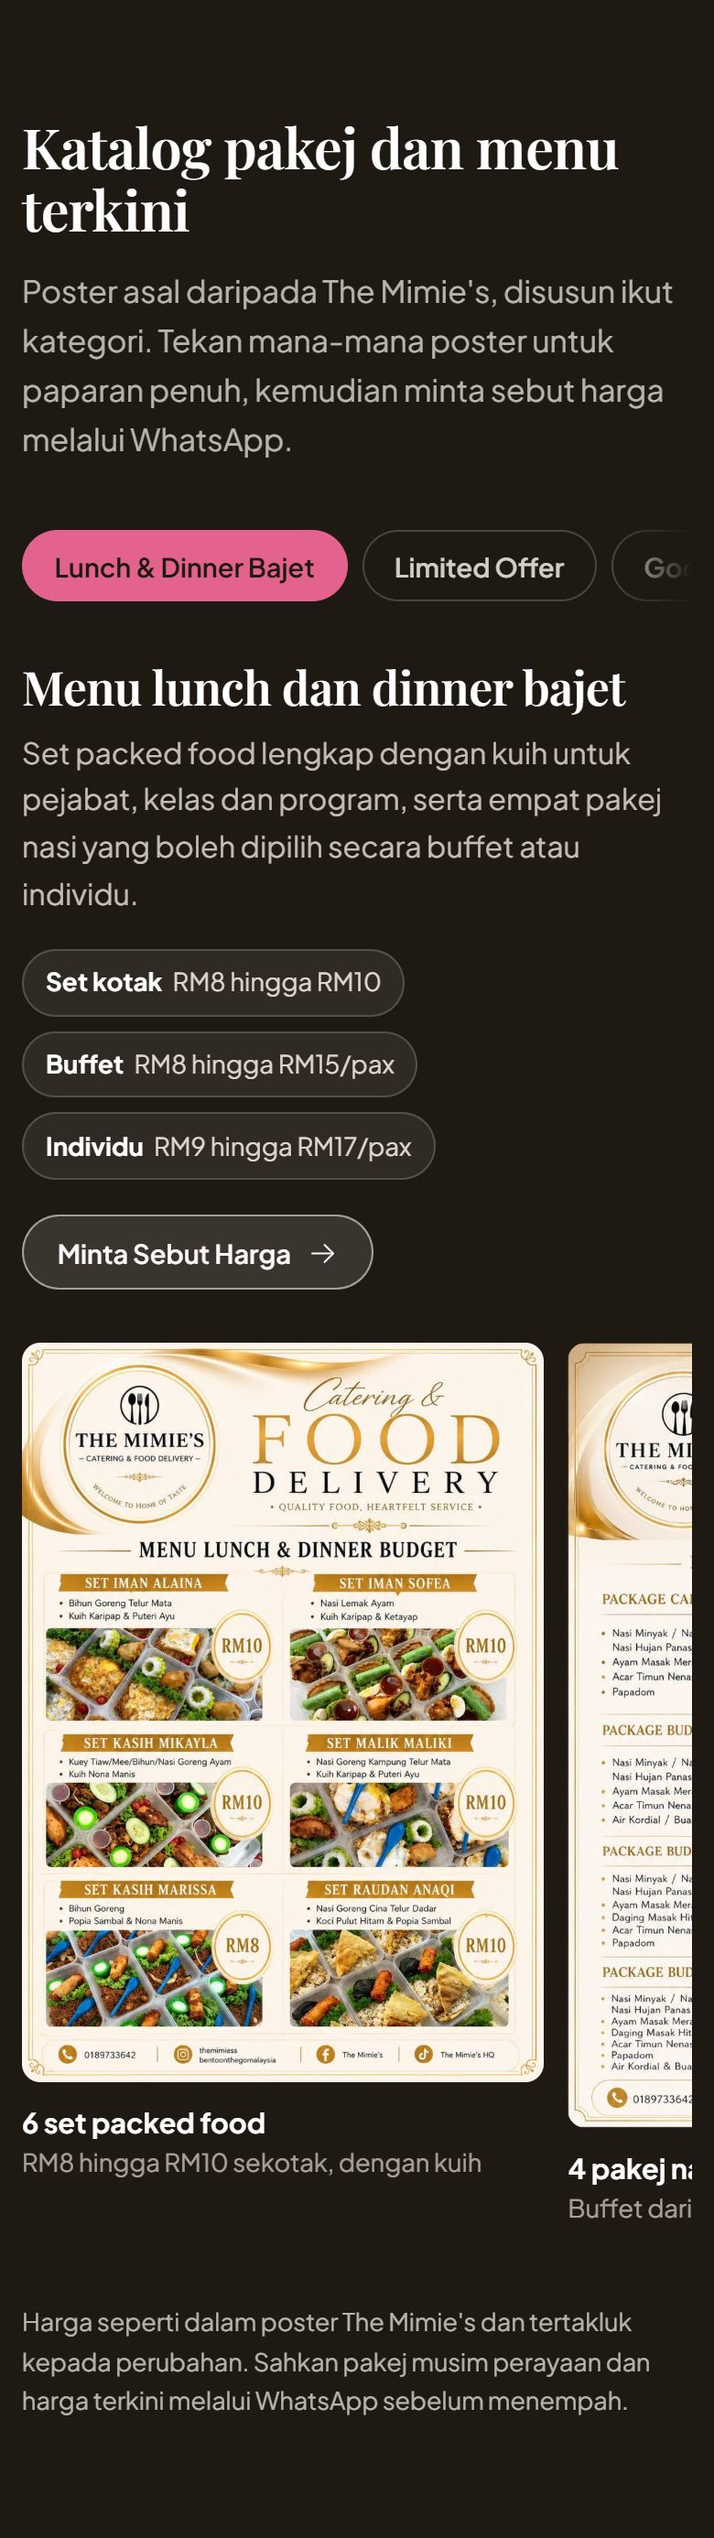
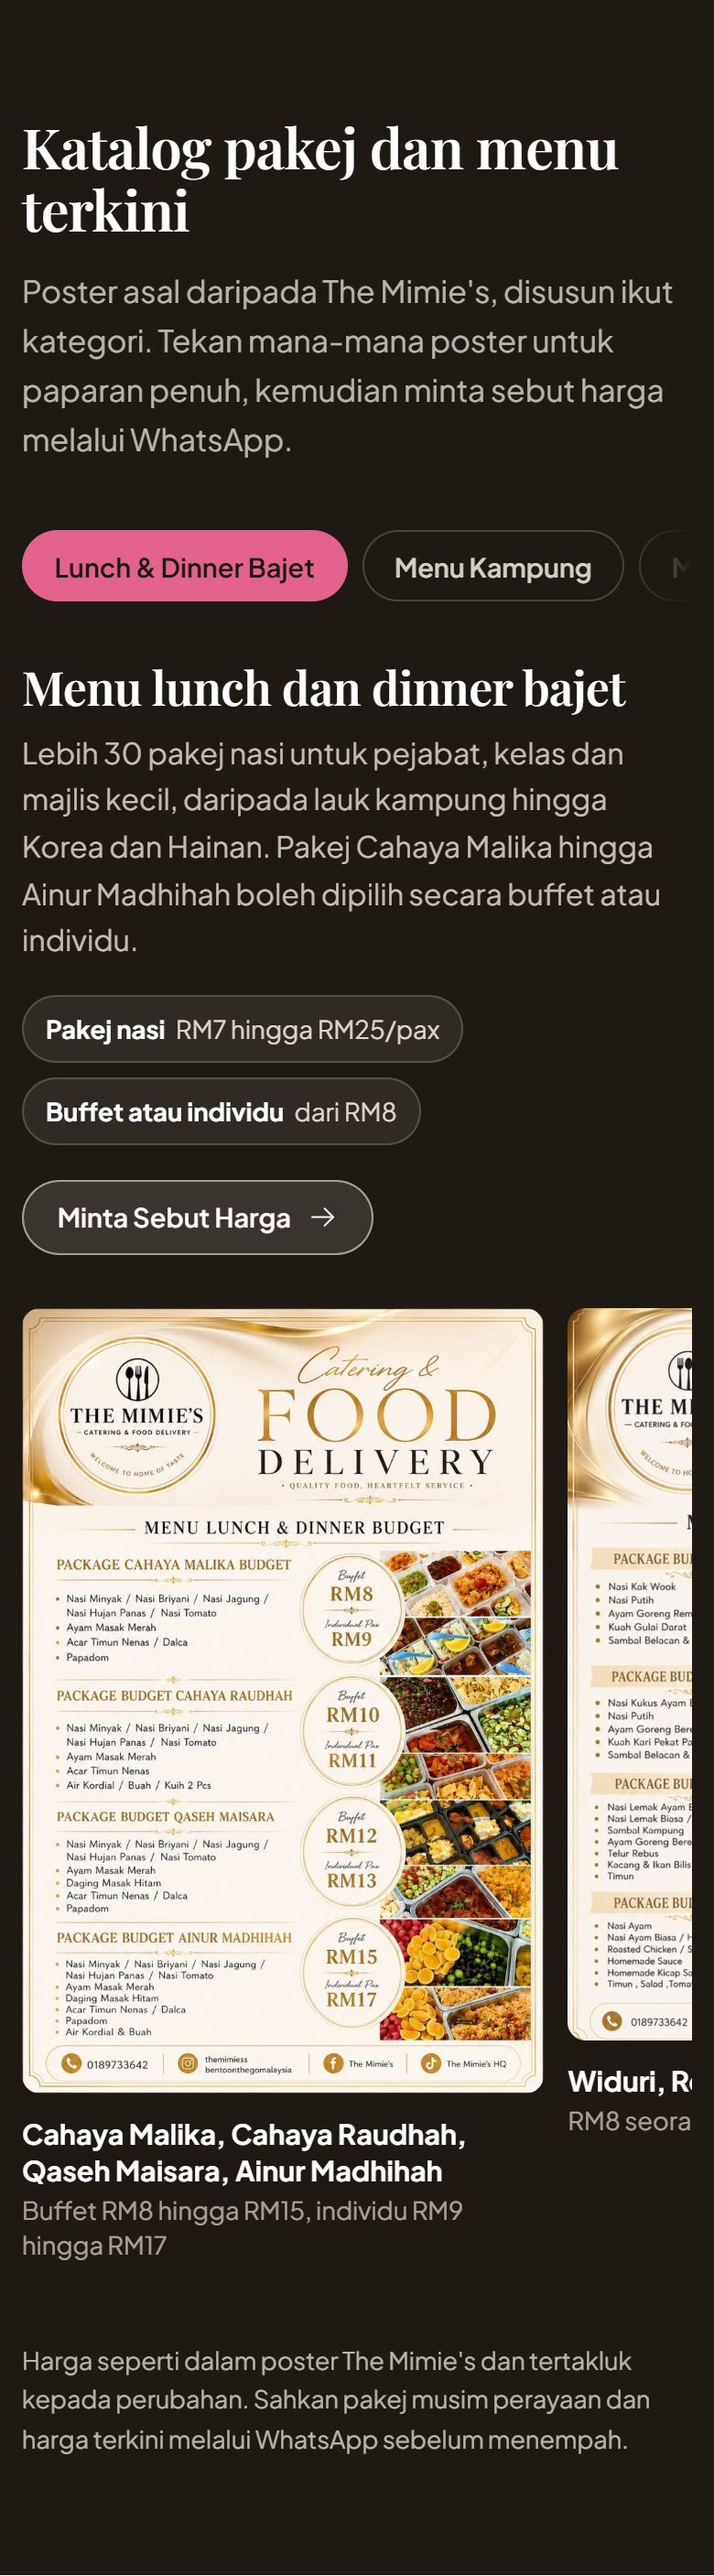
Add files via upload

diff --git a/script.js b/script.js
@@ -102,8 +102,8 @@
     });
   });
 
-  /* ---------- Lightbox (gallery, katalog posters, feedback) ----------
-     Prev/next stay inside the nearest [data-lb] group. */
+  /* ---------- Lightbox (gallery, katalog posters, feedback, bento sets) ----------
+     Prev/next stay inside the nearest [data-lb] group and skip items hidden by filters. */
   var items = Array.prototype.slice.call(document.querySelectorAll("[data-full]"));
   var lb = document.getElementById("lightbox");
   var lbImg = document.getElementById("lightbox-img");
@@ -120,7 +120,9 @@
   function openLb(btn) {
     lastFocus = document.activeElement;
     var group = btn.closest("[data-lb]");
-    set = group ? Array.prototype.slice.call(group.querySelectorAll("[data-full]")) : [btn];
+    set = group ? Array.prototype.slice.call(group.querySelectorAll("[data-full]")).filter(function (el) {
+      return el === btn || el.offsetParent !== null;
+    }) : [btn];
     lb.classList.toggle("is-single", set.length < 2);
     showAt(set.indexOf(btn));
     lb.hidden = false;
@@ -171,6 +173,18 @@
           c.hidden = !show;
           if (show) c.classList.add("is-in");
         });
+      });
+    });
+  }
+
+  /* ---------- Feedback rail: prev/next buttons (no scroll listeners) ---------- */
+  var rail = document.getElementById("feedback-rail");
+  if (rail) {
+    Array.prototype.forEach.call(document.querySelectorAll("[data-rail]"), function (b) {
+      b.addEventListener("click", function () {
+        var dir = b.getAttribute("data-rail") === "next" ? 1 : -1;
+        var reduce = window.matchMedia && window.matchMedia("(prefers-reduced-motion: reduce)").matches;
+        rail.scrollBy({ left: dir * rail.clientWidth * 0.8, behavior: reduce ? "auto" : "smooth" });
       });
     });
   }

diff --git a/README.md b/README.md
@@ -10,21 +10,23 @@ Semua fail berada di root supaya boleh terus dimuat naik ke GitHub dan disambung
 | `index.html` | Laman utama The Mimie's (semua seksyen, termasuk `#katalog` dan `#maklum-balas`) |
 | `bento.html` | Halaman Bento On The Go (packed food, lunch box, korporat). Dipaut dari navbar, kad servis Packed Food & Bento, dan footer |
 | `styles.css` | Semua gaya, termasuk mobile dan reduced-motion. Palet pink dikongsi kedua-dua halaman (token dalam `:root`, nilai emas asal dicatat dalam komen di atas fail) |
-| `script.js` | Menu mudah alih, tab menu dan katalog, lightbox (galeri, poster katalog, maklum balas), borang sebut harga ke WhatsApp |
+| `script.js` | Menu mudah alih, tab menu dan katalog, lightbox (galeri, poster katalog, maklum balas, set bento), penapis harga set, butang rel maklum balas, borang sebut harga ke WhatsApp |
 | `playfair.woff2`, `playfair-italic.woff2`, `jakarta.woff2` | Fon (self-hosted, tiada panggilan ke Google Fonts) |
 | `logo.png`, `logo-dark.png`, `emblem.png` | Logo telus untuk latar cerah, latar gelap, dan emblem sahaja (navbar) |
 | `favicon.png`, `favicon-32.png` | Ikon tab pelayar |
 | `og-image.jpg` | Gambar pratonton bila pautan dikongsi di WhatsApp / Facebook |
 | `bento-overhead.jpg`, `hero-buffet.jpg`, `kuih-hitea.jpg`, `dewan-majlis.jpg` | Gambar hero dan seksyen (dijana AI mengikut gaya jenama). Hero laman utama kini `bento-overhead.jpg`; `hero-buffet.jpg` digunakan dalam kad servis Katering & Buffet |
 | `galeri-*.jpg`, `majlis-*.jpg`, `bernama-radio.jpg` | Gambar sebenar daripada Instagram @themimiess |
-| `bento-logo.png`, `bento-prep.jpg`, `bento-nasi-geprek.jpg`, `bento-<nama-set>.jpg` (16) | Logo dan gambar sebenar daripada Instagram @bentoonthegomalaysia (gambar set dipotong daripada poster mereka) |
-| `katalog-*.jpg` (18), `goodies-logo.jpg` | Poster katalog asal daripada klien (Okt 2026), dipaparkan dalam seksyen `#katalog` mengikut kategori |
-| `maklum-balas-pelanggan.jpg` | Poster maklum balas pelanggan daripada klien, seksyen `#maklum-balas` |
+| `bento-logo.png`, `bento-prep.jpg`, `bento-nasi-geprek.jpg` | Logo dan gambar sebenar daripada Instagram @bentoonthegomalaysia |
+| `set-<nama>.jpg` (50), `set-<nama>-thumb.jpg` (50) | Poster set Bento On The Go daripada klien (21 Okt 2026). Poster penuh untuk lightbox, thumbnail 4:5 untuk kad di `#set-menu` (bento.html) |
+| `bento-banner.jpg` | Banner "Packed Food" daripada klien, digunakan sebagai `og:image` bento.html |
+| `katalog-*.jpg` (43), `goodies-logo.jpg` | Poster katalog asal daripada klien (20 dan 21 Okt 2026), dipaparkan dalam seksyen `#katalog` mengikut kategori. Poster yang sama dalam dua kategori menggunakan satu fail |
+| `feedback-01.jpg` hingga `feedback-11.jpg` | Poster maklum balas pelanggan daripada klien, rel di seksyen `#maklum-balas` |
 | `preview-*.jpg` | Tangkapan skrin pratonton sahaja. Tidak dirujuk oleh laman dan boleh dikecualikan daripada repo |
 
 ## Deploy ke Cloudflare Pages
 
-1. Cipta repo GitHub baharu dan muat naik SEMUA fail dalam folder ini ke root repo.
+1. Cipta repo GitHub baharu dan muat naik SEMUA fail dalam folder ini ke root repo. GitHub web menerima maksimum 100 fail setiap kali muat naik, jadi muat naik dalam dua kumpulan (contoh: semua `set-*.jpg` dahulu, kemudian fail lain).
 2. Cloudflare Dashboard > Workers & Pages > Create > Pages > Connect to Git > pilih repo.
 3. Build settings: Framework preset `None`, Build command kosong, Build output directory `/` (atau kosong).
 4. Save and Deploy. Selepas domain sebenar disambung, kemas kini `og:image` dalam `index.html` kepada URL penuh
@@ -33,7 +35,14 @@ Semua fail berada di root supaya boleh terus dimuat naik ke GitHub dan disambung
 ## Perkara yang perlu disahkan dengan klien sebelum live
 
 - Harga pakej (diambil daripada poster Instagram/TikTok mereka pada 2026). Tukar dalam seksyen `#pakej`, `#katalog` dan `#menu` (index.html) serta `#set-menu` dan `#pakej-harian` (bento.html) jika berubah.
-- Harga 16 set Bento On The Go diambil daripada poster @bentoonthegomalaysia (RM6 hingga RM18 sekotak).
+- Harga 50 set Bento On The Go diambil daripada poster klien (RM5 hingga RM30 sekotak). Dua poster tidak dipaparkan kerana menu tidak sepadan dengan nama: "Set Daging Kunyit" (2c8b545e, menu Ayam Lemak Cili Api) dan "Set Bolognese" (b889d333, menu Spaghetti Oglio Olio Chicken).
+- Set dengan nama sama tetapi menu atau harga berbeza: Set Vegetarian (RM10, RM10, RM12), Set Nasi Putih (RM8, RM13, RM22), Set Nasi Istimewa (RM8, RM10), Set Nasi Goreng Cina (RM9, RM12). Semua dipaparkan.
+- Salah eja pada poster Bento (teks laman sudah dibetulkan): "Lomak Cili Api", "Ariomatic Rice", "Salad Timato", "Pakeri Nenas", "Spagheti", "Oglio Oglio".
+- Poster Lunch & Dinner Bajet 4 menyenaraikan "Melati" dua kali (RM12 dan RM15). Nama Melati, Cempaka dan Kemboja juga digunakan semula dengan harga lain dalam poster 9.
+- Pakej Ainur Madhihah: poster bajet menyebut buffet RM15 / individu RM17, poster kenduri "Hot Selling" menyebut RM16/pax (RM1,600 untuk 100 pax).
+- Poster Ainur Madhihah menyebut liputan "KL, Selangor, Negeri Sembilan". Laman masih menyebut KL, Selangor, Putrajaya, Cyberjaya dan Kuala Selangor; tambah Negeri Sembilan jika disahkan.
+- Poster maklum balas 11 (Euroclear Bank) mencetak nombor WhatsApp "018-97336421" (satu digit lebih).
+- Poster akhir Bento menyebut Instagram "bentooonthegomalaysia" (tiga huruf o) dan Facebook/TikTok "Bento On The Go Malaysia" tanpa pautan. Laman masih memaut @bentoonthegomalaysia sahaja.
 - E-mel `mimisyahirah22@gmail.com` (daripada poster mereka). Tukar di seksyen `#hubungi` dan JSON-LD di `<head>` jika perlu.
 - Kedudukan pin Google Maps. Iframe menggunakan carian alamat; jika pin tidak tepat, ganti `src` iframe dengan embed daripada Google Maps > Share > Embed a map.
 - Jika mereka mahukan pautan Facebook, tambah di footer (`.footer__social`). Halaman Facebook mereka tidak dijumpai secara awam semasa penyelidikan.
